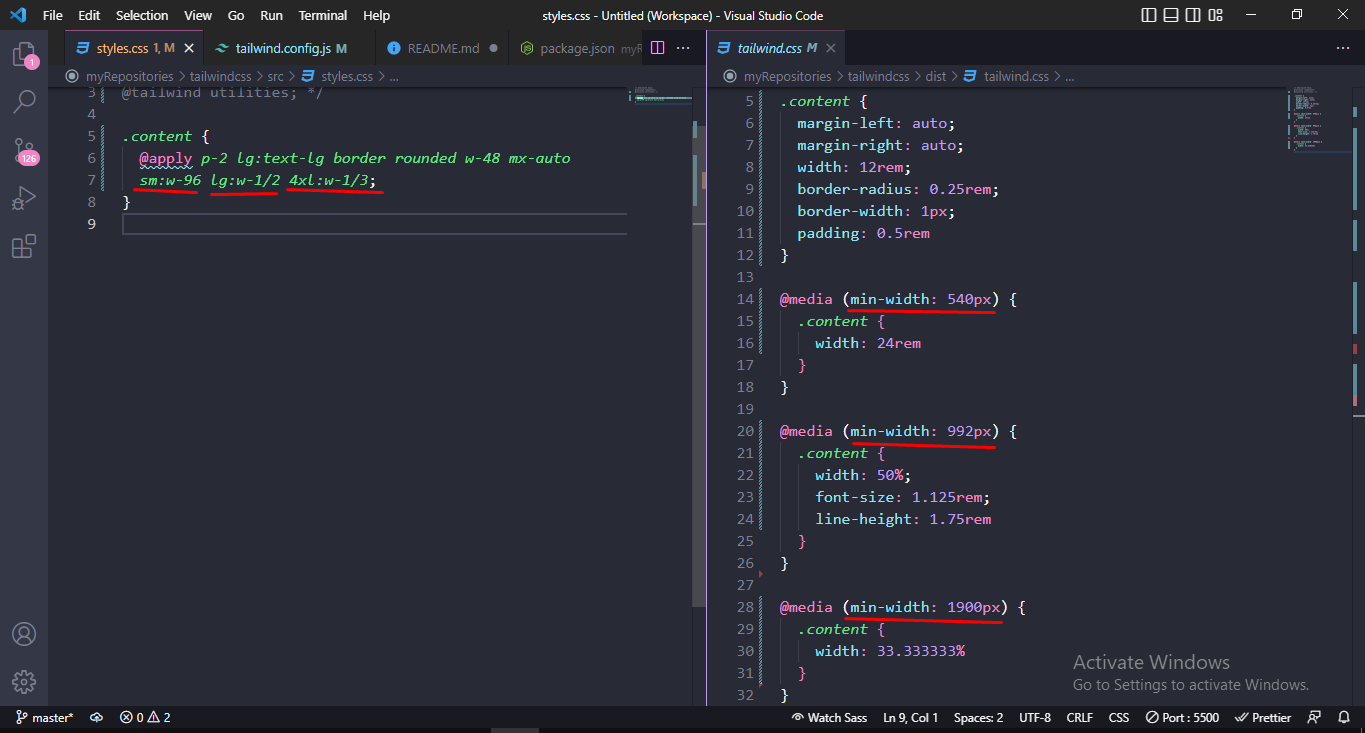
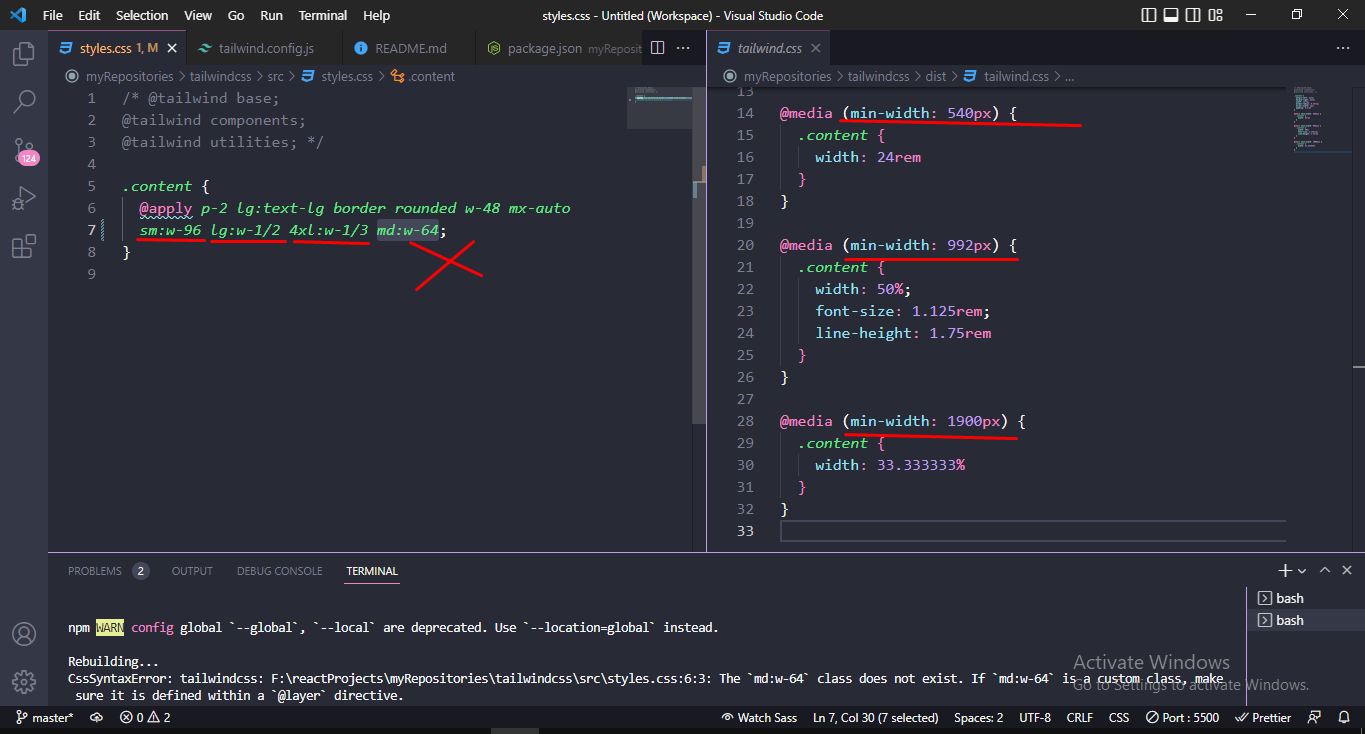
update screens core plugin of theme configuration

diff --git a/src/styles.css b/src/styles.css
@@ -4,5 +4,5 @@
 
 .content {
   @apply p-2 lg:text-lg border rounded w-48 mx-auto 
-  sm:w-96 lg:w-1/2 4xl:w-1/3;
+  sm:w-96 lg:w-1/2 4xl:w-1/3 md:w-64;
 }

diff --git a/README.md b/README.md
@@ -17,6 +17,8 @@
 
 ## screens core plugin
 
+If we customize screens property in theme `outside` of extend property, this customization will replace the screens configuration of tailwind css. So, we can't use other class of tailwind css for screens
+
 - code of tailwind.config.js file
 
 ```sh
@@ -46,12 +48,13 @@ module.exports = {
 
 .content {
   @apply p-2 lg:text-lg border rounded w-48 mx-auto 
-  sm:w-96 lg:w-1/2 4xl:w-1/3;
+  sm:w-96 lg:w-1/2 4xl:w-1/3 md:w-64;
 }
 ```
 
 ## Code
 
 ![screens core plugin of theme configuration](./images/screens%20core%20plugin%20of%20theme%20configuration.png)
+![screens core plugin of theme configuration](./images/screens%20core%20plugin%20of%20theme%20configuration2.png)
 
 <br>
